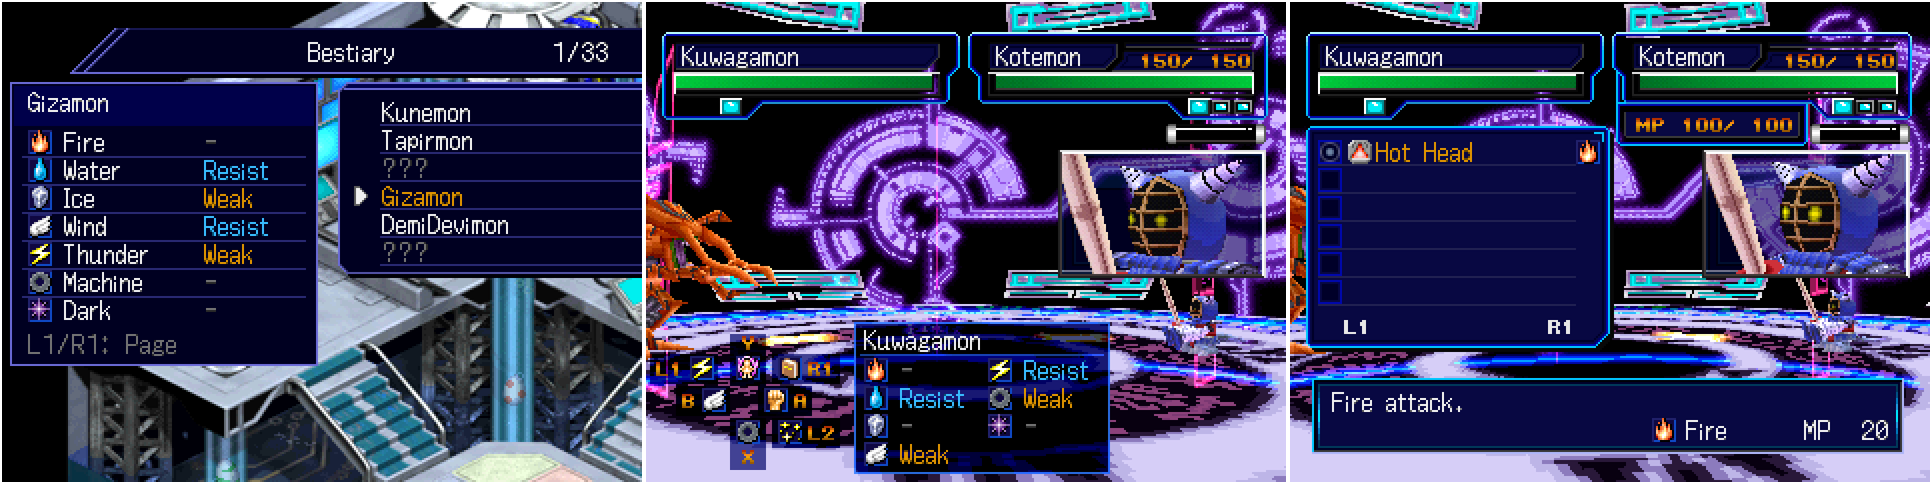
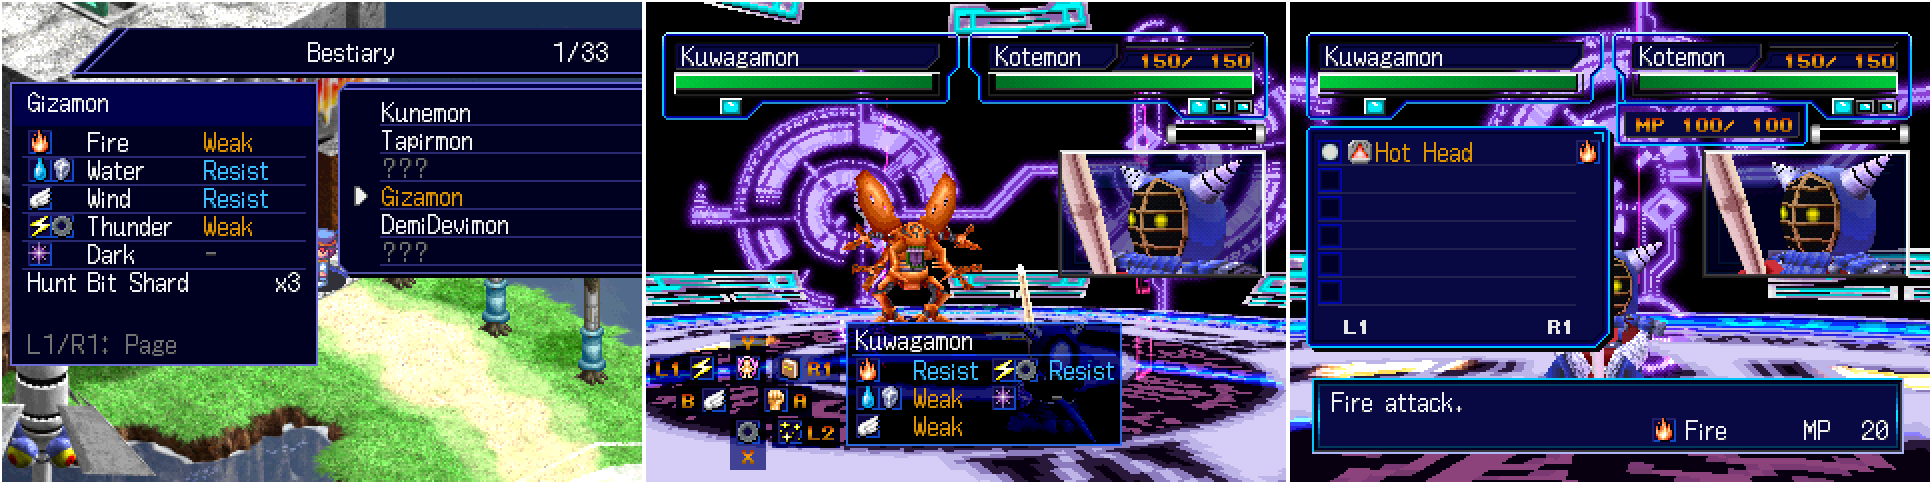
fix(definitive,ci): resolve handoff pending items, update UI capture, bump psxstack
- Bump psxstack submodule (5e88c08 -> d09f5e7) with Windows cross-build
  GNU objcopy/objdump, runtime exclusion, and non-EGL/Linux guards; remove
  the temporary workaround block from port/CMakeLists.txt.
- tests/port/render_gpu.py: accept '--renderer: software, gpu or gles' in
  bad-renderer usage assertion.
- port/game/definitive_quest_screen.c: defer the Guide arrival notice
  until fieldstg_stage.title_shown clears so it does not draw behind the
  map title wipe.
- port/game/definitive_dri_screen.c: wrap the DRI victory debrief reward
  line when more than 2 items are listed and expand the debrief panel.
- port/game/definitive_hunt.c & tests/port/definitive_hunt_driver.c: only
  count victory (result == 1) for hunt chain and drops; defeat (result == 2)
  resets Rare Target chain without granting rewards.
- docs/MECHANICS.md: fix critical hit multiplier range (+50% to +148%,
  matching src/fightstg/fightstg_8008D3B4.c).
- docs/images/definitive/definitive_ui.png & README.md: update 3-panel
  capture to 5-family Bestiary with Hunt line, 5-family battle Inspect,
  and battle technique menu.

diff --git a/port/game/definitive_dri_screen.c b/port/game/definitive_dri_screen.c
@@ -64,8 +64,8 @@ extern const unsigned char def_str_DriTitle[], def_str_DriSep[], def_str_DriDash
 #define DRI_INFO_Y (DRI_TOP - 5 + DRI_LIST_H + 3)
 #define DRI_INFO_H 58
 #define DRI_HINT_Y 208
-#define DRI_DEB_Y 118    /* the debrief's panel, and the Tamer's page */
-#define DRI_DEB_H 116
+#define DRI_DEB_Y 114    /* the debrief's panel, and the Tamer's page */
+#define DRI_DEB_H 122
 #define DRI_TEXT 96      /* bytes of a composed line */
 #define DRI_WINDOWS 32
 #define DRI_PAL_TEXT 0
@@ -413,15 +413,21 @@ static void debrief_open(void) {
 
         def_glyph_put(deb_reward, &p, sizeof(deb_reward), def_str_DriNewReward);
         def_glyph_put(deb_reward, &p, sizeof(deb_reward), line_break);
-        put_items(deb_reward, &p, sizeof(deb_reward), dri_sim.items, dri_sim.count);
+        if (dri_sim.count > 2) {
+            put_items(deb_reward, &p, sizeof(deb_reward), dri_sim.items, 2);
+            def_glyph_put(deb_reward, &p, sizeof(deb_reward), line_break);
+            put_items(deb_reward, &p, sizeof(deb_reward), dri_sim.items + 2, dri_sim.count - 2);
+        } else {
+            put_items(deb_reward, &p, sizeof(deb_reward), dri_sim.items, dri_sim.count);
+        }
     } else {
         def_glyph_put(deb_reward, &p, sizeof(deb_reward), def_str_DriNoReward);
     }
-    w = dri_window(2, 18, DRI_DEB_Y + 70);
-    w->set_page_lines(w, 2);
+    w = dri_window(2, 18, DRI_DEB_Y + 67);
+    w->set_page_lines(w, 3);
     w->set_text(w, deb_reward, -1);
     w->set_palette(w, dri_sim.count > 0 ? DRI_PAL_HOT : DRI_PAL_TEXT);
-    w = dri_window(1, 18, DRI_DEB_Y + 96);
+    w = dri_window(1, 18, DRI_DEB_Y + 104);
     w->set_text(w, (u8 *)def_str_DriOk, -1);
 }
 

diff --git a/tests/port/definitive_hunt_driver.c b/tests/port/definitive_hunt_driver.c
@@ -139,6 +139,7 @@ int main(void) {
      * draw keeps the cases below about the chain alone (a hit would make them Rare Targets, which reset it). */
     next_value = 99;
     encounter(7, 0);
+    encounter(7, 2); /* defeat (fightstg_events.result == 2) */
     check("a lost or fled encounter neither counts nor resets", chain_now() == DEF_HUNT_CHAIN_MIN);
 
     def_hunt_encounter(7);
@@ -226,8 +227,16 @@ int main(void) {
     check("a missed draw leaves nothing", def_record_material(5) == 2 && lines_pending() == 0);
     next_value = 0;
     encounter(7, 0);
+    encounter(7, 2); /* defeat must not drop commons or count */
     def_hunt_battle_end(1); /* a scripted battle */
-    check("a lost encounter and a scripted battle leave nothing", def_record_material(5) == 2 && lines_pending() == 0);
+    check("a lost or defeated encounter and a scripted battle leave nothing", def_record_material(5) == 2 && lines_pending() == 0);
+    def_record_set_hunt(0x05, DEF_HUNT_CHAIN_CAP);
+    next_value = 0;
+    fought = def_hunt_encounter(7);
+    def_hunt_battle_end(2); /* defeated by a Rare Target */
+    check("defeat on a Rare Target resets chain and grants no Rare reward",
+          fought == 40 && chain_now() == 0 && def_hunt_reward_battle() == -1 && lines_pending() == 0);
+    def_record_set_hunt(0x06, 2);
     def_hunt_encounter(7);
     def_hunt_skipped(); /* the Rush won it */
     check("an encounter the Rush took leaves its materials, and the chain is not counted",

diff --git a/tests/port/render_gpu.py b/tests/port/render_gpu.py
@@ -131,7 +131,8 @@ def fallback(sdl, headless, env):
     check(rc == 0 and "renderer: gpu unavailable (" in out and "; software" in out and "renderer gpu (" not in out,
           f"--window --renderer gpu without a device: the fallback logged, the input self-test passes (exit {rc})")
     rc, out = run([sdl, "--renderer", "vulkan"], env)
-    check(rc == 64 and "--renderer: software or gpu" in out, f"--renderer vulkan: exit 64 (exit {rc})")
+    check(rc == 64 and ("--renderer: software or gpu" in out or "--renderer: software, gpu or gles" in out),
+          f"--renderer vulkan: exit 64 (exit {rc})")
     for spec in ("0:x.ppm", "5@640:x.ppm", "5@0x480:x.ppm", "5", "5:"):
         rc, out = run([sdl, "--gpu-screenshot", spec], env)
         check(rc == 64 and "--gpu-screenshot: FRAME[@WxH]:PATH" in out, f"--gpu-screenshot {spec}: exit 64 (exit {rc})")

diff --git a/port/game/definitive_hunt.c b/port/game/definitive_hunt.c
@@ -289,16 +289,16 @@ void def_hunt_battle_end(int result) {
     if (hunt.from_encounter && def_on()) {
         def_record_hunt(&region, &chain);
         if (hunt.rare) {
-            port_log("hunt: Rare Target %s, chain %d reset", result != 0 ? "won" : "left", chain);
+            port_log("hunt: Rare Target %s, chain %d reset", result == 1 ? "won" : "left", chain);
             chain = 0;
-            if (result != 0) {
+            if (result == 1) {
                 reward.pending = 1;
                 reward.base = hunt.base;
                 reward.level = hunt.level;
                 reward.pack = 0;
                 rare_won(hunt.target);
             }
-        } else if (result != 0) {
+        } else if (result == 1) {
             if (chain < DEF_HUNT_CHAIN_CAP) {
                 chain++;
             }

diff --git a/port/game/definitive_quest_screen.c b/port/game/definitive_quest_screen.c
@@ -635,8 +635,8 @@ void def_notice_frame(void) {
     }
     mgr = heap_objects.find(7, -1, -1);
     layer = gfx_module.funcs.get_layer(NC_LAYER);
-    if (fieldstg_stage.menu_open != 0 || fieldstg_stage.event_running != 0 || fieldstg_stage.battle_starting != 0 ||
-        mgr == NULL || mgr->state != OBJECT_STATE_RUN || layer == NULL) {
+    if (fieldstg_stage.menu_open != 0 || fieldstg_stage.title_shown != 0 || fieldstg_stage.event_running != 0 ||
+        fieldstg_stage.battle_starting != 0 || mgr == NULL || mgr->state != OBJECT_STATE_RUN || layer == NULL) {
         return; /* the field is held: the notice waits, and so does its clock */
     }
     if (nc.left <= 0) {

diff --git a/docs/MECHANICS.md b/docs/MECHANICS.md
@@ -99,7 +99,7 @@ Facts [C]:
      (`attack_element != 0`): `value += value * attack_element_power * 2 / target.resists[attack_element - 2]`.
      **Higher target resist = smaller bonus; the bonus is additive (never reduces below `value`).**
   5. Multi-hit crest (`multi_hit`, item 0x13C): if `rec.kind < 2` and script not 0xB/0xC, `value = value * 4 / 10`.
-  6. Critical (a roll, section 3): `value += value * ((next() & 0x3F) + 0x20) / 64` (adds +50 % to about +98 %).
+  6. Critical (a roll, section 3): `value += value * ((next() & 0x3F) + 0x20) / 64` (adds +50 % to +148 %).
   7. Guard crest: `value -= target.guard` (flat), clamped at 0. (Items 0x145/0x146.)
   8. Cap: `value <= base * 5`, then `value >= 10000` becomes 9999.
 - Note `get_damage` passes a 4th argument `target` to `scale_damage` that the old-style K&R definition ignores.
@@ -182,7 +182,7 @@ What a test should check:
 - Enemy floor: choose inputs giving chance 5 -> effective 32 (1024 of 4096 hit).
 - Boss: party hit probability is the rolls with residue >= 43: 85 of 128 residues, 2720 of 4096 (the 0x2B comparison is `>=`, so not 84).
 - Critical base: weaponless, no statuses: 4/128 = 128 crits per cycle. Strong-type match: 64/128. A paralysed target (`paralysis_power 80`): `4 + 10`.
-- Crit damage adds `value * (r & 0x3F + 0x20) / 64`: fixed `r` -> multiplier from 1.5 to 1.984. Ensure the crit draw happens only after a successful crit roll.
+- Crit damage adds `value * ((r & 0x3F) + 0x20) / 64`: fixed `r` -> multiplier from 1.5 to 2.484 (special: `+ (r % 65 + 0x20) / 64`, 1.5 to 2.5). Ensure the crit draw happens only after a successful crit roll.
 - Draw counts per action: hit roll 1 draw, crit roll 1, crit magnitude 1 more only if it crits.
 
 ## 4. Element and type effectiveness, resists

diff --git a/docs/images/definitive/README.md b/docs/images/definitive/README.md
@@ -13,7 +13,7 @@ The pictures the top-level README shows. A planned one is listed here and in the
 | `hunt.svg` | PRD 4 A to C: the regional chain and its chance curve, the Rare Target with its region's numeral, its rewards (the region's numbered rare item, one R-Booster, more experience), the bestiary's "Hunt" and "Rare Cores" lines | `DEF_HUNT_CHAIN_MIN`, `DEF_HUNT_CHAIN_SURE`; the example "Datamon IV", "Datamon Core IV", "Rare Cores 4/13" |
 | `economy.svg` | PRD 4 B and D to H: commons and rares, what the forge, the Black Market and the DRI Gauntlet take, the gear they give; the price rule | `DEF_RECIPE_FROM`, `DEF_RECIPE_TOP`, `DEF_BM_COMMONS`, `DEF_BM_REPLICA_RARES`, `DEF_BM_REPLICA_BITS`, `DEF_REPLICAS`, `DEF_PRICE_KNEE`, `DEF_PRICE_DRAIN_PCT`, `DEF_SELL_BASE`, `DEF_SELL_ABOVE_PCT`; the 107 recipes and 27 variants of the generated tables; Tenjinmaru's recipe ("Peta Prism 0/30, Bulbmon V 0/1") |
 | `hunt-materials.svg` | superseded by `economy.svg` and no longer shown by the README (it still calls the forge, the Black Market and the DRI planned): move it out of the folder | the example only |
-| `definitive_ui.png` | a capture: the bestiary, the weakness panel in battle and the technique menu's element. Taken before the five-family screens and the bestiary's Hunt line | |
+| `definitive_ui.png` | a capture: the bestiary (the five element families and the Hunt line), the five-family weakness panel in battle and the technique menu's element | |
 | `inspect.png` | planned capture: the weakness panel in battle, by family | |
 | `bestiary.png` | planned capture: the bestiary, with its Hunt line | |
 
